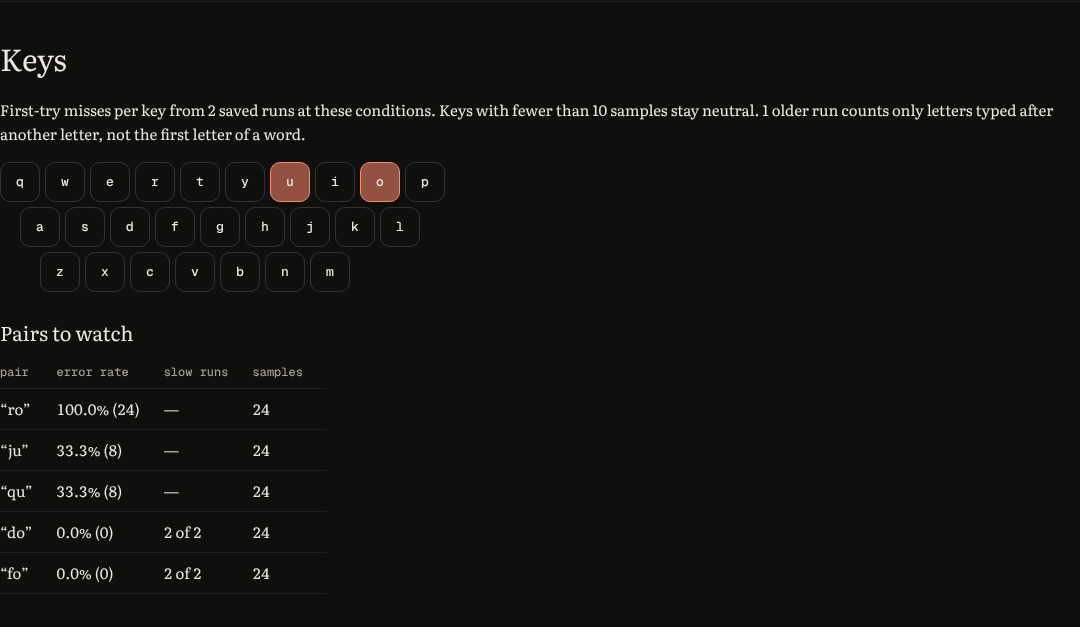
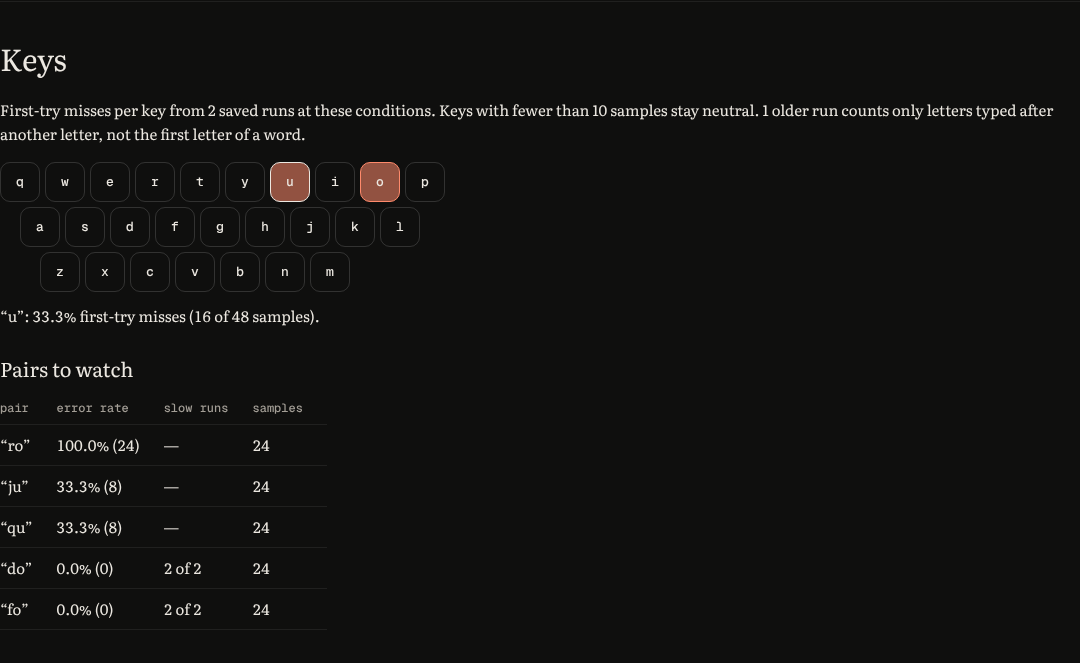
Make heatmap values reachable by keyboard and touch; size it from tokens
The heatmap is now a single-tab-stop grid: arrow keys, Home and End move
between keys as drawn, and focusing or tapping a key shows its miss rate
and sample counts in a visible line below, so the numbers no longer
depend on a hover tooltip.

Key size and row stagger come from the spacing tokens (a whole key and
half a key), replacing the one-off narrow-layout sizes.

Claude-Session: https://claude.ai/code/session_01SaBNo9RHRaTR8cCUjK1iLD

diff --git a/src/app.js b/src/app.js
@@ -1125,27 +1125,41 @@ function renderTraining() {
 }
 
 // Static heatmap: coral steps by first-attempt miss rate; thin evidence stays neutral.
+// One tab stop: arrow keys move between keys as drawn, and focus or a tap shows that key's numbers
+// in the line below, so the values never depend on a hover tooltip.
+const HEAT_ROWS = ['qwertyuiop', 'asdfghjkl', 'zxcvbnm'];
+let heatKey = null;
+let heatDetails = {};
 function renderKeys(runs) {
   const analysis = keyAnalysis(runs);
   const pct = (v) => `${(v * 100).toFixed(1)}%`;
   const older = analysis.pairDerivedRuns;
   $('key-note').textContent = `First-try misses per key from ${analysis.runs} saved ${analysis.runs === 1 ? 'run' : 'runs'} at these conditions. Keys with fewer than ${MIN_PATTERN_SAMPLES} samples stay neutral.${older
     ? ` ${older} older ${older === 1 ? 'run counts' : 'runs count'} only letters typed after another letter, not the first letter of a word.` : ''}`;
-  $('key-heatmap').replaceChildren(...['qwertyuiop', 'asdfghjkl', 'zxcvbnm'].map((letters) => {
+  heatDetails = {};
+  const hadFocus = $('key-heatmap').contains(document.activeElement);
+  $('key-heatmap').replaceChildren(...HEAT_ROWS.map((letters) => {
     const row = element('div', '', 'key-row');
+    row.setAttribute('role', 'row');
     for (const letter of letters) {
       const stat = analysis.keys[letter];
       const cell = element('span', letter, 'key');
-      cell.setAttribute('role', 'listitem');
+      cell.setAttribute('role', 'gridcell');
+      cell.dataset.letter = letter;
+      cell.tabIndex = -1;
       const step = !stat?.enough ? 'none' : stat.missRate >= 0.08 ? '3' : stat.missRate >= 0.04 ? '2' : stat.missRate > 0 ? '1' : '0';
       cell.dataset.heat = step;
       cell.title = stat?.enough ? `${letter}: ${pct(stat.missRate)} miss · ${stat.samples} samples`
         : `${letter}: not enough samples (${stat?.samples || 0})`;
       cell.setAttribute('aria-label', cell.title);
+      heatDetails[letter] = stat?.enough
+        ? `“${letter}”: ${pct(stat.missRate)} first-try misses (${stat.errors} of ${stat.samples} samples).`
+        : `“${letter}”: ${stat?.samples || 0} ${stat?.samples === 1 ? 'sample' : 'samples'}, fewer than ${MIN_PATTERN_SAMPLES}, so no miss rate yet.`;
       row.append(cell);
     }
     return row;
   }));
+  selectHeatKey(heatKey, { focus: hadFocus });
   const rows = analysis.pairs.map((p) => {
     const tr = document.createElement('tr');
     // Denominator: runs with at least MIN_PATTERN_SAMPLES clean intervals for this pair.
@@ -1161,6 +1175,42 @@ function renderKeys(runs) {
   $('pairs-table').querySelector('tbody').replaceChildren(...rows);
   $('pairs-table').hidden = !rows.length;
   $('pairs-empty').hidden = Boolean(rows.length);
+}
+
+// Marks one key as the tab stop and shows its numbers; with no key chosen yet, "q" is the stop.
+function selectHeatKey(letter, { focus = false } = {}) {
+  const cells = [...$('key-heatmap').querySelectorAll('.key')];
+  const target = cells.find((cell) => cell.dataset.letter === letter) || cells[0];
+  if (!target) return;
+  for (const cell of cells) {
+    cell.tabIndex = cell === target ? 0 : -1;
+    if (cell === target && letter) cell.dataset.selected = 'true';
+    else delete cell.dataset.selected;
+  }
+  heatKey = letter ? target.dataset.letter : null;
+  $('key-detail').textContent = heatKey ? heatDetails[heatKey] : 'Select a key to see its miss rate and sample count.';
+  if (focus) target.focus();
+}
+
+function moveHeatFocus(event) {
+  const cell = event.target.closest?.('.key');
+  if (!cell) return;
+  const row = HEAT_ROWS.findIndex((letters) => letters.includes(cell.dataset.letter));
+  const col = HEAT_ROWS[row].indexOf(cell.dataset.letter);
+  const at = (r, c) => HEAT_ROWS[r][Math.max(0, Math.min(c, HEAT_ROWS[r].length - 1))];
+  const next = {
+    ArrowLeft: () => col > 0 && at(row, col - 1),
+    ArrowRight: () => col < HEAT_ROWS[row].length - 1 && at(row, col + 1),
+    // Up and down keep the column, clamped to the shorter row.
+    ArrowUp: () => row > 0 && at(row - 1, col),
+    ArrowDown: () => row < HEAT_ROWS.length - 1 && at(row + 1, col),
+    Home: () => at(event.ctrlKey ? 0 : row, 0),
+    End: () => event.ctrlKey ? HEAT_ROWS.at(-1).at(-1) : at(row, HEAT_ROWS[row].length - 1),
+  }[event.key];
+  if (!next) return;
+  event.preventDefault();
+  const letter = next();
+  if (letter) selectHeatKey(letter, { focus: true });
 }
 
 function renderHistory() {
@@ -1818,6 +1868,16 @@ function bindEvents() {
   $('run-again').addEventListener('click', () => sessionKind === 'daily' ? startDaily() : resetSession('practice', { focus: true }));
   $('progress-conditions').addEventListener('change', renderHistory);
   $('progress-period').addEventListener('change', renderHistory);
+  $('key-heatmap').addEventListener('keydown', moveHeatFocus);
+  $('key-heatmap').addEventListener('focusin', (event) => {
+    const cell = event.target.closest('.key');
+    if (cell && cell.dataset.letter !== heatKey) selectHeatKey(cell.dataset.letter);
+  });
+  // A tap focuses the key too, so touch shows the same line as the keyboard.
+  $('key-heatmap').addEventListener('click', (event) => {
+    const cell = event.target.closest('.key');
+    if (cell) selectHeatKey(cell.dataset.letter, { focus: true });
+  });
   $('training-conditions').addEventListener('change', renderTraining);
   $('start-daily').addEventListener('click', startDaily);
   $('start-drill').addEventListener('click', startDrill);

diff --git a/src/styles.css b/src/styles.css
@@ -1446,27 +1446,27 @@ body[data-focus-mode="true"][data-view="practice"] .exit-focus { display: inline
 .progress-section, .training-memory, .daily-challenge { padding: var(--space-8) 0; border-top: 1px solid var(--hairline); }
 .progress-section h2, .training-memory h2, .daily-challenge h2, .local-challenge-heading { margin: 0 0 var(--space-4); font-size: var(--text-title); font-weight: 400; }
 
-/* Keys: static heatmap, coral steps only, no motion. */
-.key-heatmap { justify-content: start; margin: var(--space-4) 0 var(--space-6); }
+/* Keys: static heatmap, coral steps only, no motion. Rows stagger by half a key, then a whole key. */
+.key-heatmap { --heat-key: var(--space-10); justify-content: start; margin: var(--space-4) 0 var(--space-3); }
 .key-heatmap .key-row { justify-content: start; }
-.key-heatmap .key-row:nth-child(2) { padding-left: 20px; }
-.key-heatmap .key-row:nth-child(3) { padding-left: 40px; }
-.key-heatmap .key { transition: none; border-bottom-width: 1px; }
+.key-heatmap .key-row:nth-child(2) { padding-left: calc(var(--heat-key) / 2); }
+.key-heatmap .key-row:nth-child(3) { padding-left: var(--heat-key); }
+.key-heatmap .key { width: var(--heat-key); height: var(--heat-key); transition: none; border-bottom-width: 1px; cursor: pointer; }
 .key-heatmap .key[data-heat="none"] { border-style: dashed; color: var(--outline); }
 .key-heatmap .key[data-heat="0"] { color: var(--text); }
 .key-heatmap .key[data-heat="1"] { color: var(--text); background: var(--danger-soft); }
 .key-heatmap .key[data-heat="2"] { color: var(--text); background: var(--danger-mid); }
 .key-heatmap .key[data-heat="3"] { color: var(--text); background: var(--danger-strong); border-color: var(--danger); }
+.key-heatmap .key[data-selected="true"] { border-color: var(--text); }
+.key-detail { margin: 0 0 var(--space-6); font-variant-numeric: tabular-nums lining-nums; }
 .pairs-heading { margin: 0 0 var(--space-2); font-size: var(--text-lead); font-weight: 400; }
 .pairs-table { border-collapse: collapse; font-size: var(--text-small); }
 .pairs-table th { font: 500 var(--text-mono)/1.4 var(--font-mono); color: var(--muted); text-align: left; padding: var(--space-2) var(--space-6) var(--space-2) 0; border-bottom: 1px solid var(--hairline); }
 .pairs-table td { padding: var(--space-2) var(--space-6) var(--space-2) 0; border-bottom: 1px solid var(--hairline); }
 .pairs-table td.num { font-variant-numeric: tabular-nums; }
 @media (max-width: 600px) {
-  .key-heatmap { display: grid; grid-template-columns: minmax(0, 1fr); }
-  .key-heatmap .key { flex: 1 1 0; min-width: 0; max-width: 34px; height: 34px; }
-  .key-heatmap .key-row:nth-child(2) { padding-left: 14px; }
-  .key-heatmap .key-row:nth-child(3) { padding-left: 28px; }
+  .key-heatmap { --heat-key: var(--space-8); display: grid; grid-template-columns: minmax(0, 1fr); }
+  .key-heatmap .key { flex: 1 1 0; min-width: 0; max-width: var(--heat-key); }
   .pairs-table { width: 100%; }
   .pairs-table th, .pairs-table td { padding-right: var(--space-2); }
 }

diff --git a/e2e/key-heatmap.spec.js b/e2e/key-heatmap.spec.js
@@ -65,6 +65,34 @@ test('Progress shows a per-key miss heatmap and ranked pairs with sample counts'
   await expect(pairRow('ro').locator('td').nth(2)).toHaveAttribute('title', 'No run has 10 clean intervals for this pair yet');
   await expect(pairRow('do').locator('td').nth(2)).toHaveText('2 of 2');
 
+  // The heatmap is one tab stop; arrow keys move between keys and the line below shows the numbers.
+  const detail = page.locator('#key-detail');
+  await expect(detail).toHaveText('Select a key to see its miss rate and sample count.');
+  await expect(heatmap.locator('[tabindex="0"]')).toHaveCount(1);
+  await page.locator('#keys-heading').evaluate((heading) => { heading.tabIndex = -1; heading.focus(); });
+  await page.keyboard.press('Tab');
+  await expect(key('q')).toBeFocused();
+  await expect(detail).toHaveText('“q”: 0.0% first-try misses (0 of 12 samples).');
+  await page.keyboard.press('End');
+  await page.keyboard.press('ArrowLeft');
+  await expect(key('o')).toBeFocused();
+  await expect(detail).toHaveText('“o”: 42.9% first-try misses (36 of 84 samples).');
+  await page.keyboard.press('ArrowDown');
+  await expect(key('l')).toBeFocused();
+  await page.keyboard.press('ArrowUp');
+  await expect(key('o')).toBeFocused();
+  await expect(heatmap.locator('[tabindex="0"]')).toHaveCount(1);
+  await page.keyboard.press('Tab');
+  expect(await page.evaluate(() => document.activeElement.closest('#key-heatmap'))).toBeNull();
+  await page.keyboard.press('Shift+Tab');
+  await expect(key('o')).toBeFocused();
+  await expect(key('o')).toHaveAttribute('data-selected', 'true');
+  // A tap or click shows the same line.
+  await key('u').click();
+  await expect(key('u')).toBeFocused();
+  await expect(detail).toContainText('“u”: ');
+  await expect(detail).toContainText('first-try misses');
+
   const section = page.locator('section[aria-labelledby="keys-heading"]');
   await section.scrollIntoViewIfNeeded();
   await page.emulateMedia({ colorScheme: 'dark' });

diff --git a/index.html b/index.html
@@ -331,7 +331,8 @@
           <section class="progress-section" aria-labelledby="keys-heading">
             <h2 id="keys-heading">Keys</h2>
             <p id="key-note" class="result-note"></p>
-            <div id="key-heatmap" class="keyboard key-heatmap" role="list" aria-label="Miss rate by key"></div>
+            <div id="key-heatmap" class="keyboard key-heatmap" role="grid" aria-label="Miss rate by key. Arrow keys move between keys."></div>
+            <p id="key-detail" class="result-note key-detail"></p>
             <h3 class="pairs-heading">Pairs to watch</h3>
             <p id="pairs-empty" class="result-note" hidden>No pair has enough samples with misses or slow intervals yet.</p>
             <table id="pairs-table" class="pairs-table" hidden>
